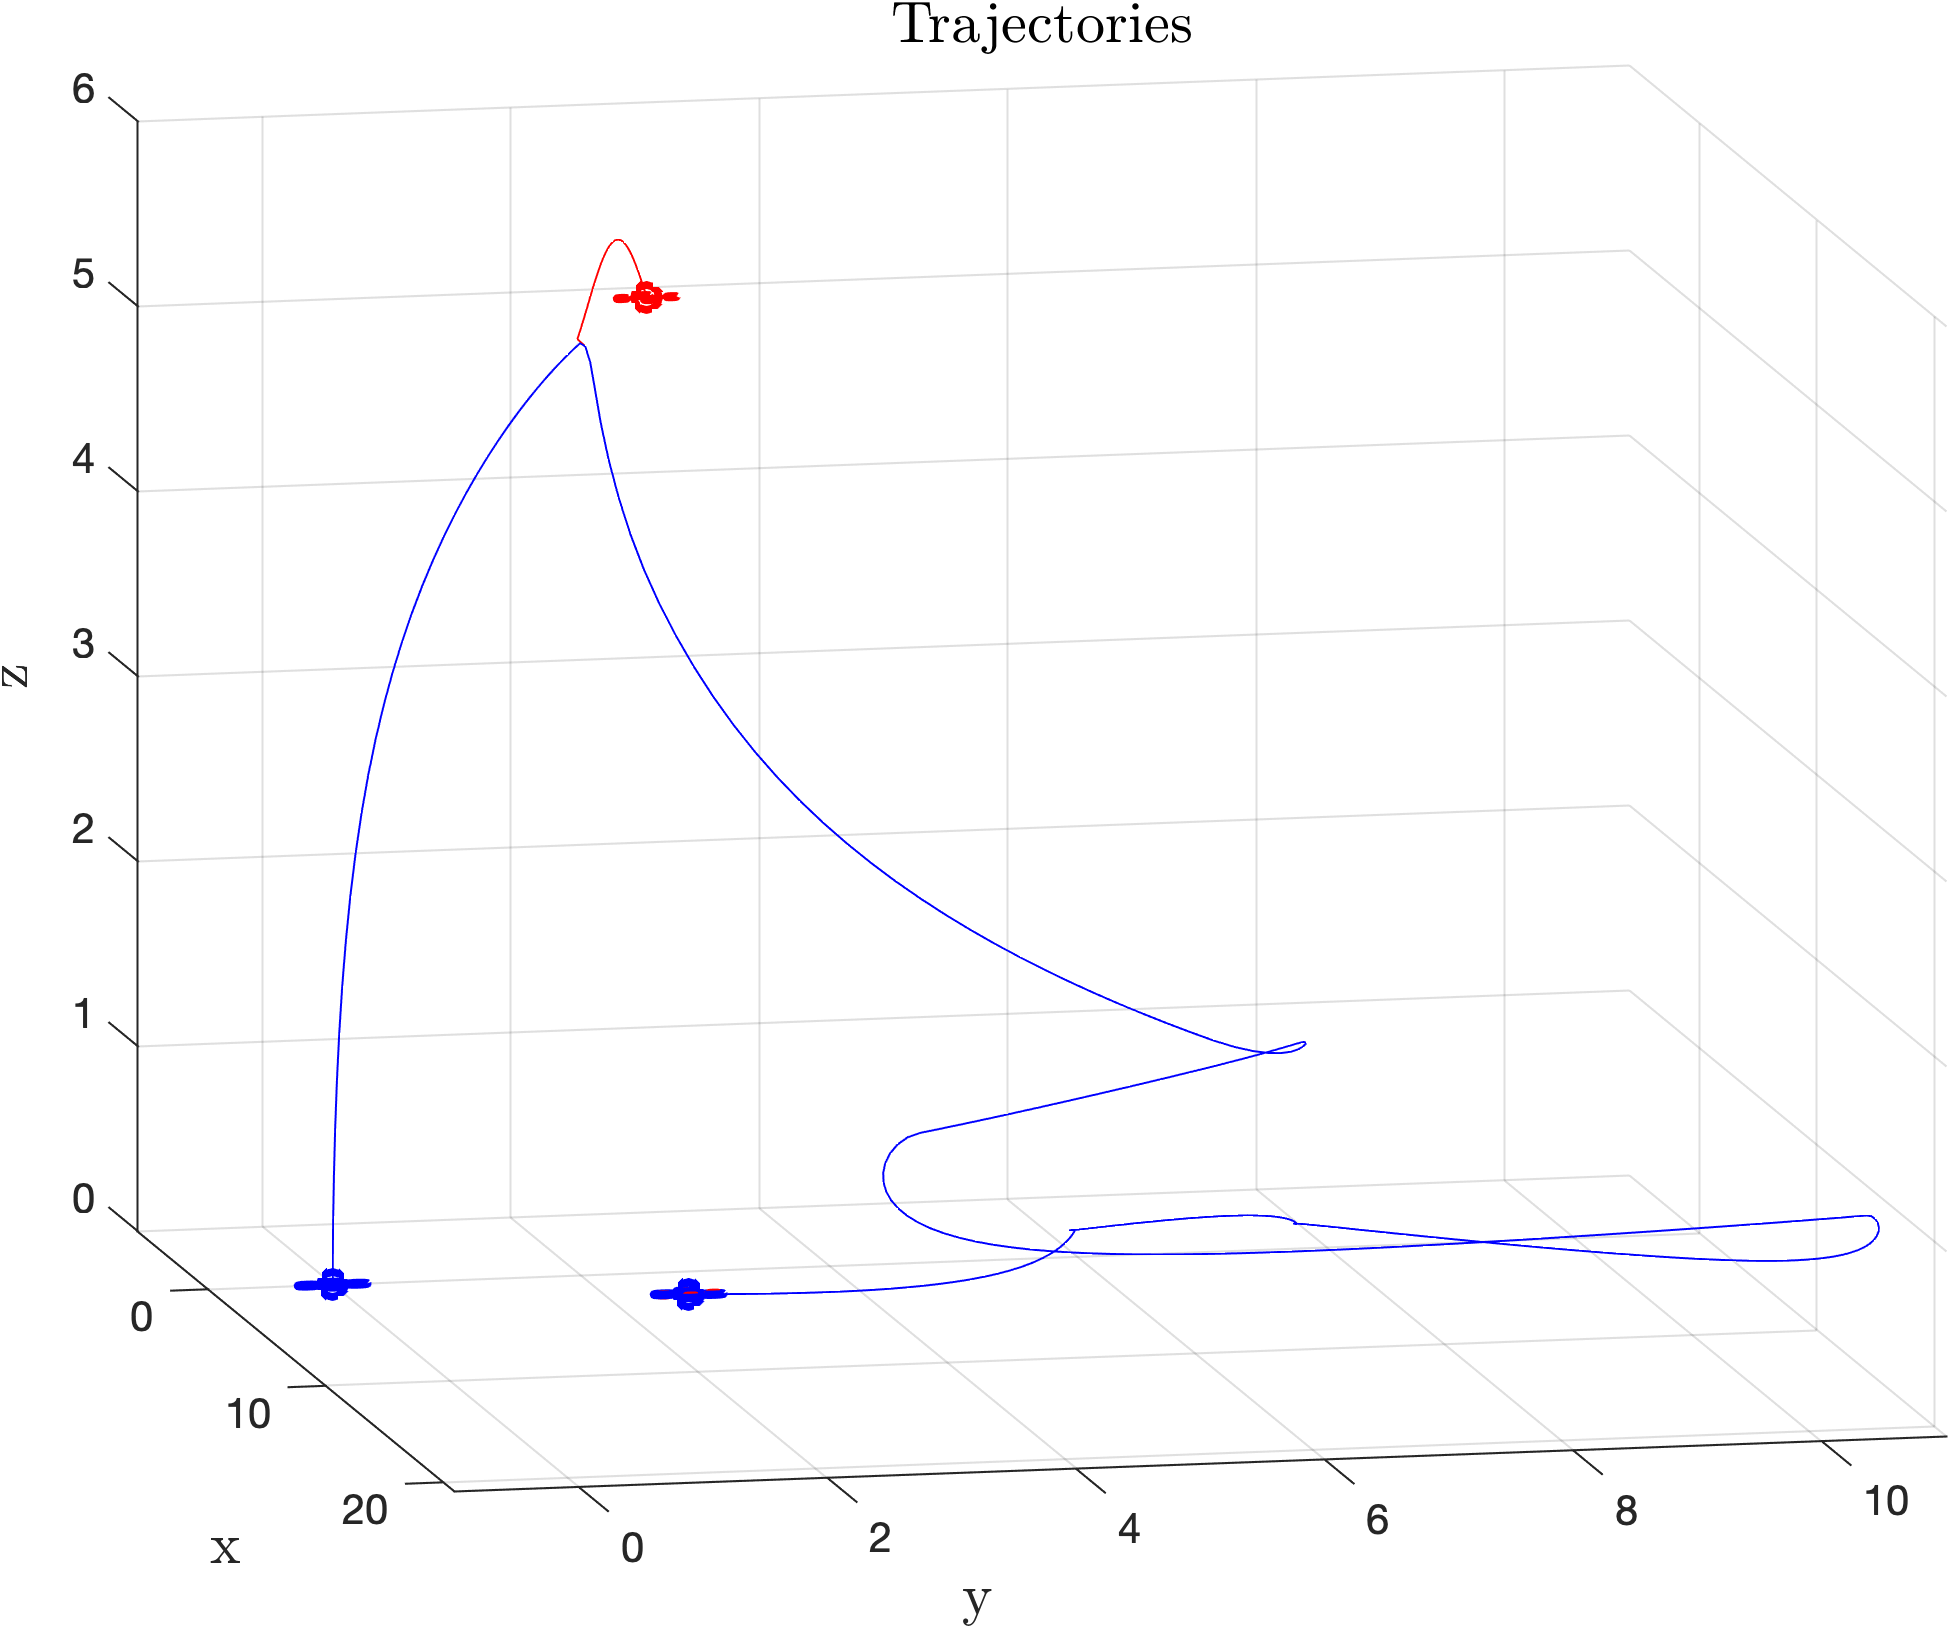
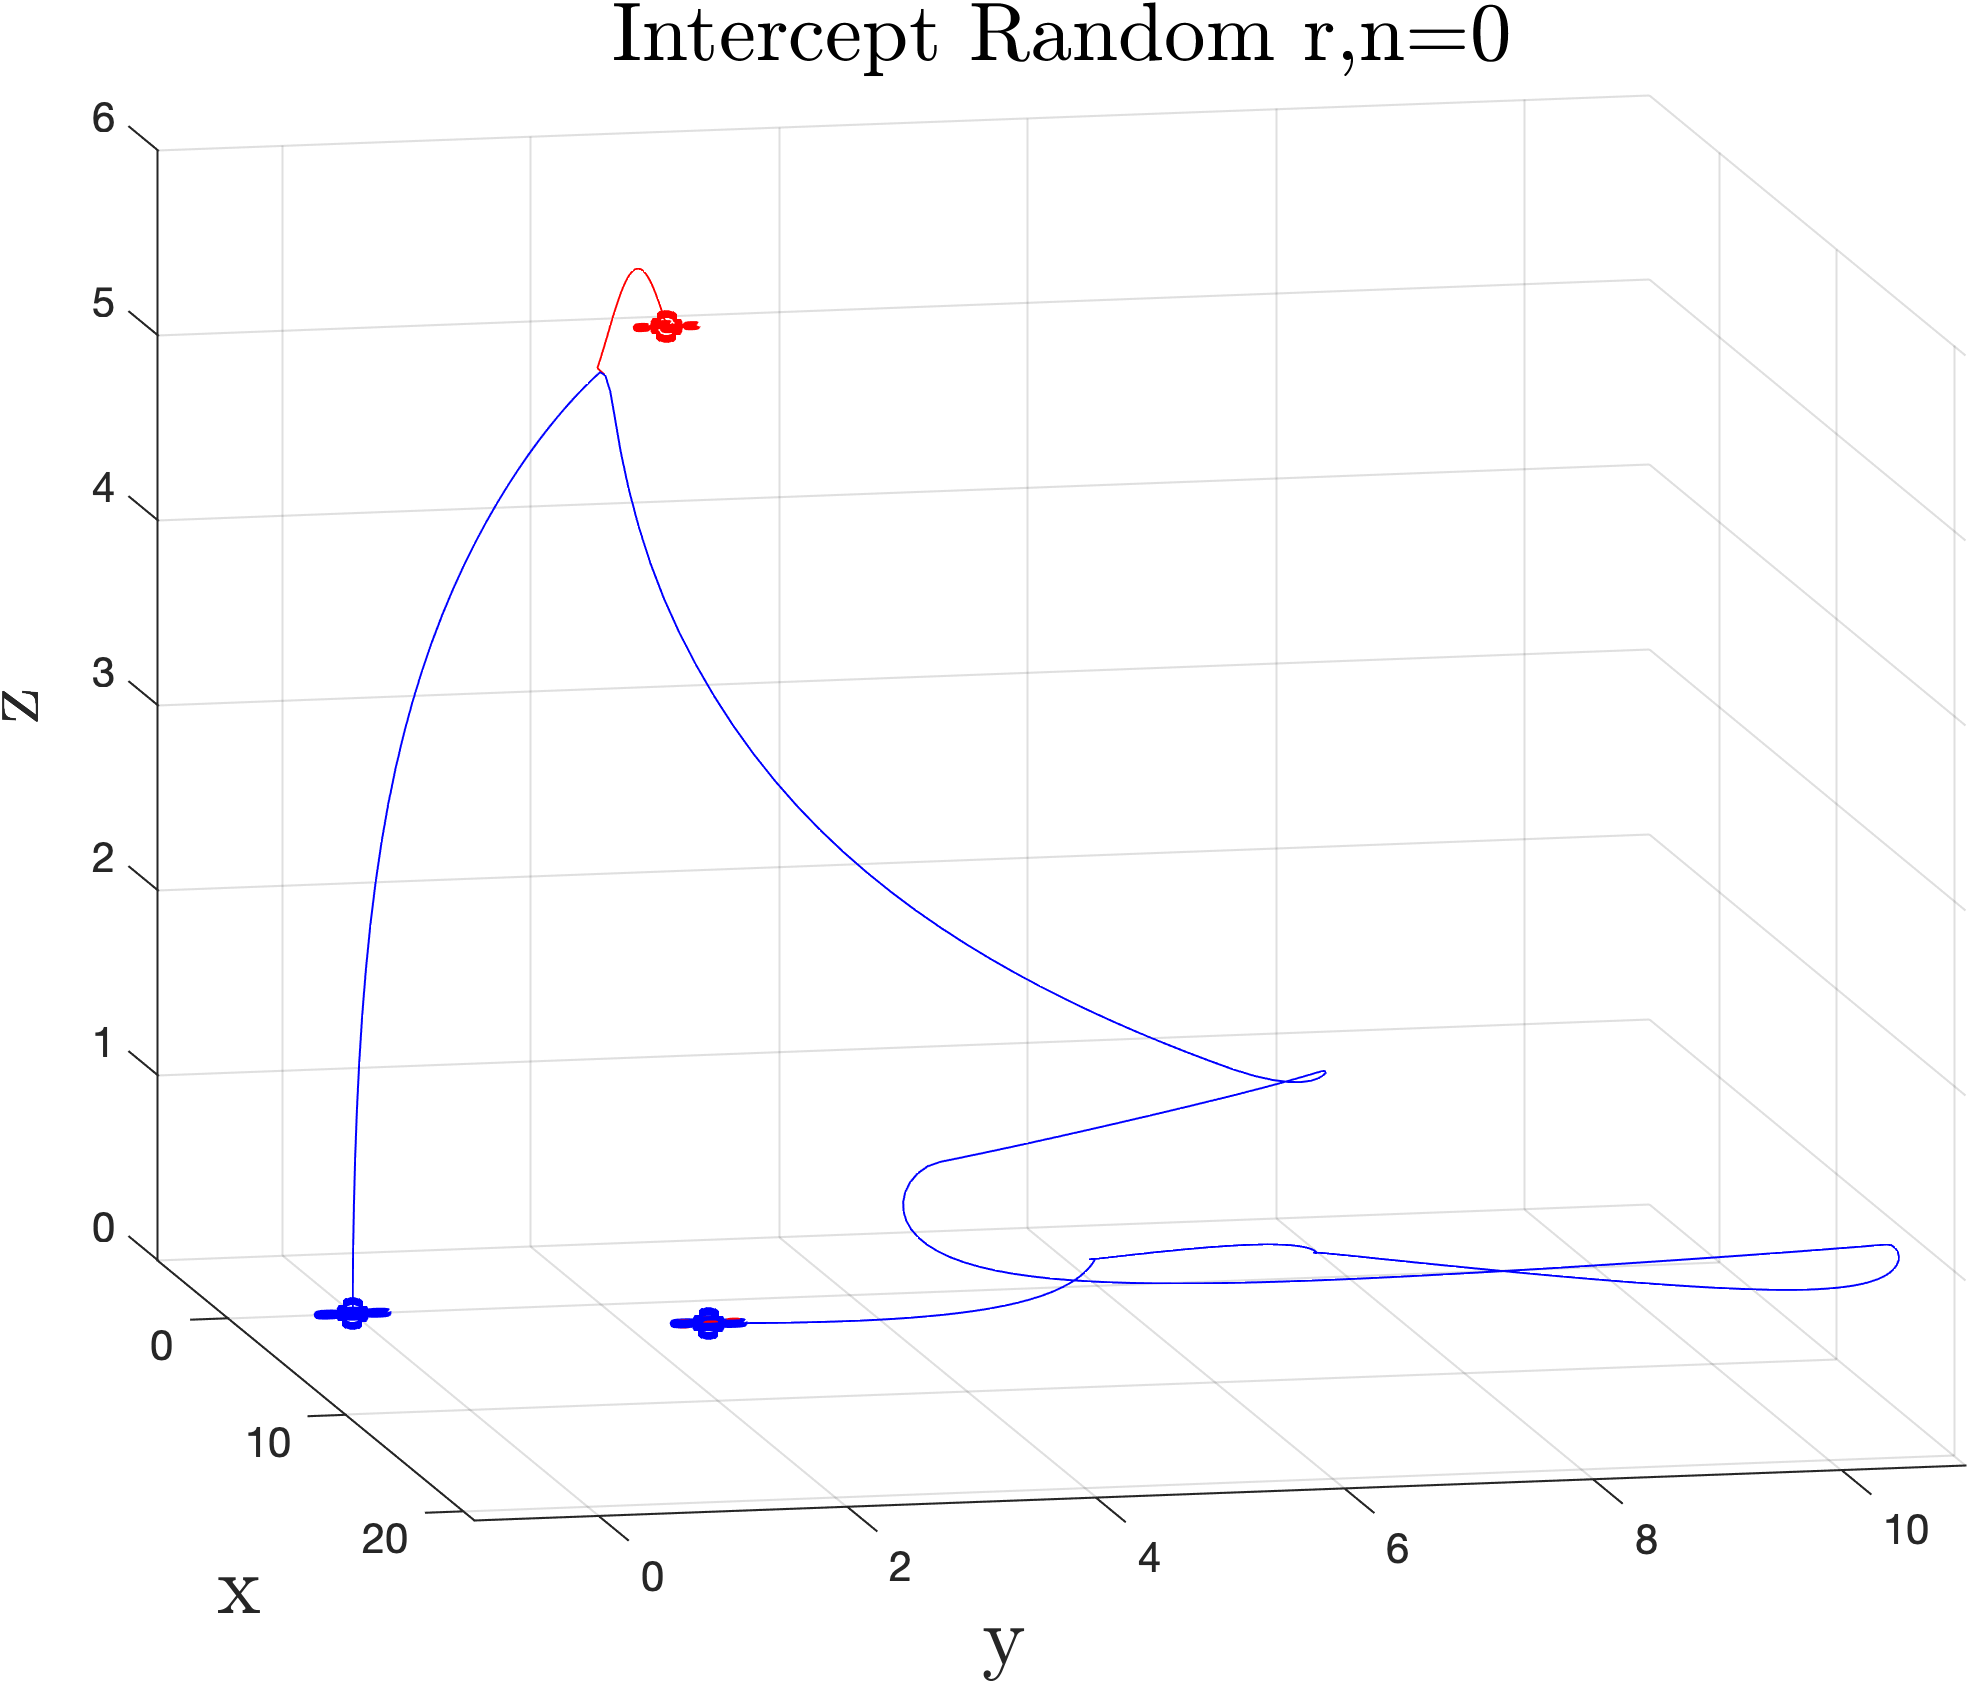
feature: final pdf generation w/ new images

diff --git a/project_writeup/main.tex b/project_writeup/main.tex
@@ -133,7 +133,7 @@ function in order to incorporate time-related changes to the target path as well
  \end{subfigure}
  \begin{subfigure}[b]{0.49\columnwidth}
     \centering
-    \includegraphics[width = 1\textwidth]{images/Intercept.png}
+    \includegraphics[width = 1\textwidth]{images/InterceptRandom.png}
      \label{fig:CaptureW}
      \vspace{-5mm}
      \caption{Capture Disturbance}
